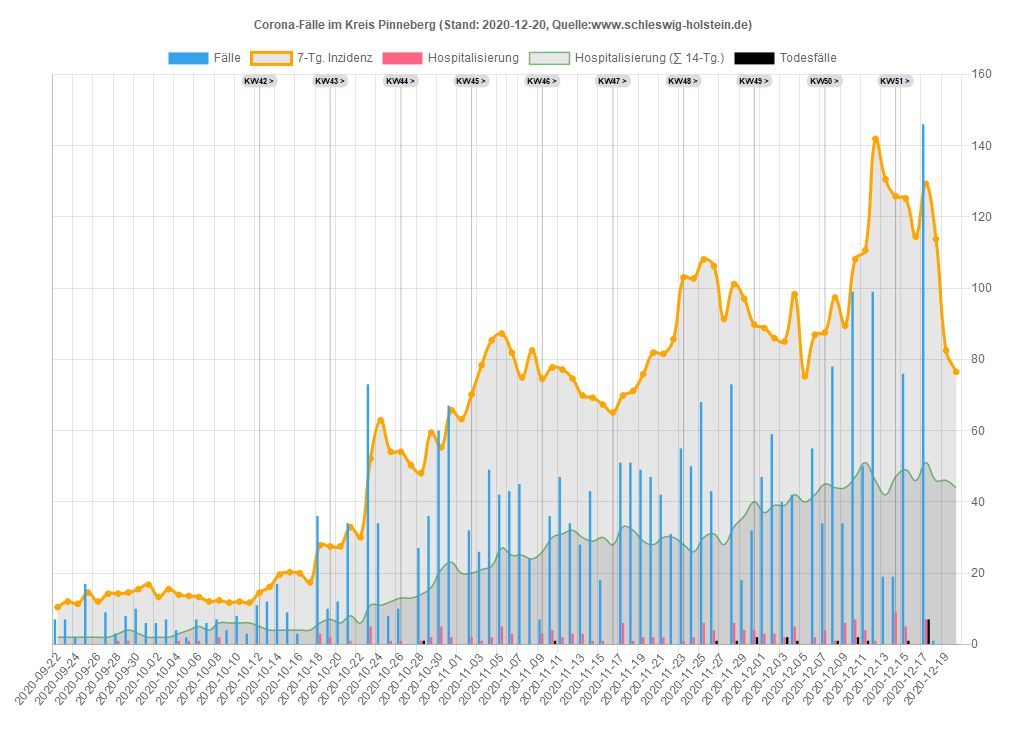
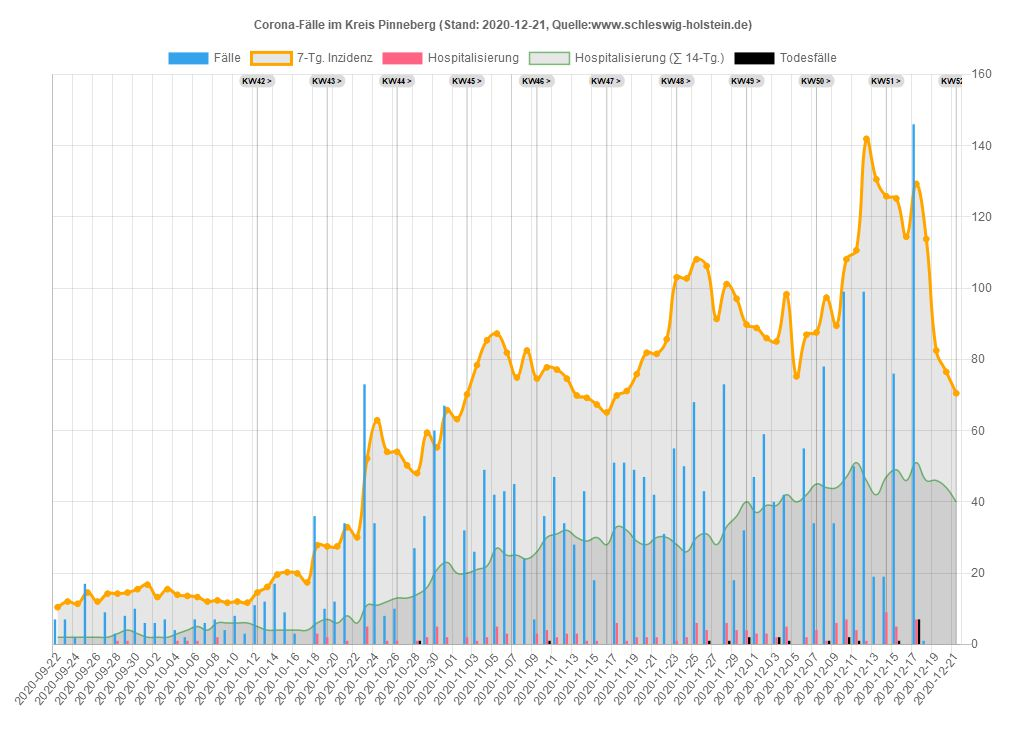
21.12.2020 21:26:18,69

Changed region(s): [[0.0625, 0.0931, 0.9375, 0.9622]]

diff --git a/sh/Data_SH.js b/sh/Data_SH.js
@@ -1,33 +1,33 @@
 var chdata={
-labels: ["2020-09-22","2020-09-23","2020-09-24","2020-09-25","2020-09-26","2020-09-27","2020-09-28","2020-09-29","2020-09-30","2020-10-01","2020-10-02","2020-10-03","2020-10-04","2020-10-05","2020-10-06","2020-10-07","2020-10-08","2020-10-09","2020-10-10","2020-10-11","2020-10-12","2020-10-13","2020-10-14","2020-10-15","2020-10-16","2020-10-17","2020-10-18","2020-10-19","2020-10-20","2020-10-21","2020-10-22","2020-10-23","2020-10-24","2020-10-25","2020-10-26","2020-10-27","2020-10-28","2020-10-29","2020-10-30","2020-10-31","2020-11-01","2020-11-02","2020-11-03","2020-11-04","2020-11-05","2020-11-06","2020-11-07","2020-11-08","2020-11-09","2020-11-10","2020-11-11","2020-11-12","2020-11-13","2020-11-14","2020-11-15","2020-11-16","2020-11-17","2020-11-18","2020-11-19","2020-11-20","2020-11-21","2020-11-22","2020-11-23","2020-11-24","2020-11-25","2020-11-26","2020-11-27","2020-11-28","2020-11-29","2020-11-30","2020-12-01","2020-12-02","2020-12-03","2020-12-04","2020-12-05","2020-12-06","2020-12-07","2020-12-08","2020-12-09","2020-12-10","2020-12-11","2020-12-12","2020-12-13","2020-12-14","2020-12-15","2020-12-16","2020-12-17","2020-12-18","2020-12-19","2020-12-20"],
+labels: ["2020-09-22","2020-09-23","2020-09-24","2020-09-25","2020-09-26","2020-09-27","2020-09-28","2020-09-29","2020-09-30","2020-10-01","2020-10-02","2020-10-03","2020-10-04","2020-10-05","2020-10-06","2020-10-07","2020-10-08","2020-10-09","2020-10-10","2020-10-11","2020-10-12","2020-10-13","2020-10-14","2020-10-15","2020-10-16","2020-10-17","2020-10-18","2020-10-19","2020-10-20","2020-10-21","2020-10-22","2020-10-23","2020-10-24","2020-10-25","2020-10-26","2020-10-27","2020-10-28","2020-10-29","2020-10-30","2020-10-31","2020-11-01","2020-11-02","2020-11-03","2020-11-04","2020-11-05","2020-11-06","2020-11-07","2020-11-08","2020-11-09","2020-11-10","2020-11-11","2020-11-12","2020-11-13","2020-11-14","2020-11-15","2020-11-16","2020-11-17","2020-11-18","2020-11-19","2020-11-20","2020-11-21","2020-11-22","2020-11-23","2020-11-24","2020-11-25","2020-11-26","2020-11-27","2020-11-28","2020-11-29","2020-11-30","2020-12-01","2020-12-02","2020-12-03","2020-12-04","2020-12-05","2020-12-06","2020-12-07","2020-12-08","2020-12-09","2020-12-10","2020-12-11","2020-12-12","2020-12-13","2020-12-14","2020-12-15","2020-12-16","2020-12-17","2020-12-18","2020-12-19","2020-12-20","2020-12-21"],
 datasets: [
 {label: 'Fälle',
 type: 'bar',
 backgroundColor: window.chartColors.blue,
-data: [38,42,63,53,15,15,38,48,49,27,50,16,24,39,54,45,79,54,26,25,65,65,65,55,90,26,88,163,111,160,136,236,142,115,164,164,280,215,313,265,161,142,236,262,220,274,233,177,215,252,247,192,296,158,161,100,294,208,264,250,153,121,145,251,256,225,180,219,71,81,244,240,245,318,234,154,183,314,297,529,384,472,140,241,486,322,602,508,431,157]},
+data: [38,42,63,53,15,15,38,48,49,27,50,16,24,39,54,45,79,54,26,25,65,65,65,55,90,26,88,163,111,160,136,236,142,115,164,164,280,215,313,265,161,142,236,262,220,274,233,177,215,252,247,192,296,158,161,100,294,208,264,250,153,121,145,251,256,225,180,219,71,81,244,240,245,318,234,154,183,314,297,529,384,472,140,241,486,322,602,508,431,157,211]},
 {label: '7-Tg. Inzidenz',
 type: 'line',
 pointBackgroundColor: 'orange',
 borderColor: 'orange',
-data: [7.23197027,7.88629139,8.74724023,9.40156135,9.33268544,9.16049567,9.09161977,9.4359993,9.67706498,8.43729865,8.33398478,8.36842274,8.67836432,8.71280227,8.91943,8.78167818,10.5724518,10.7102036,11.0545831,11.0890211,11.9844079,12.3632254,13.0519844,12.2254735,13.4652399,13.4652399,15.634831,19.0097504,20.5938963,23.8655019,26.6549761,31.6829174,35.67772,36.6075447,36.6419827,38.4671942,42.5997487,45.320347,47.9720694,52.2079377,53.7920836,53.0344486,55.5139813,54.8940981,55.0662879,53.7232077,52.6211932,53.1722004,55.6861711,56.2371783,55.720609,54.7563463,55.5139813,52.9311348,52.3801275,48.4197628,49.8661569,48.5230767,51.0026094,49.4184635,49.2462737,47.8687556,49.4184635,47.9376315,49.5906533,48.2475731,45.8369163,48.1098213,46.3879236,44.1838945,43.9428289,43.3918216,44.0805807,48.8330183,49.3495876,52.2079377,55.720609,58.1312658,60.0942291,69.874608,72.1475129,80.3437459,79.8616145,81.8590158,87.7823439,88.6432927,91.1572633,95.4275696,94.0156135,94.6010587]},
+data: [7.23197027,7.88629139,8.74724023,9.40156135,9.33268544,9.16049567,9.09161977,9.4359993,9.67706498,8.43729865,8.33398478,8.36842274,8.67836432,8.71280227,8.91943,8.78167818,10.5724518,10.7102036,11.0545831,11.0890211,11.9844079,12.3632254,13.0519844,12.2254735,13.4652399,13.4652399,15.634831,19.0097504,20.5938963,23.8655019,26.6549761,31.6829174,35.67772,36.6075447,36.6419827,38.4671942,42.5997487,45.320347,47.9720694,52.2079377,53.7920836,53.0344486,55.5139813,54.8940981,55.0662879,53.7232077,52.6211932,53.1722004,55.6861711,56.2371783,55.720609,54.7563463,55.5139813,52.9311348,52.3801275,48.4197628,49.8661569,48.5230767,51.0026094,49.4184635,49.2462737,47.8687556,49.4184635,47.9376315,49.5906533,48.2475731,45.8369163,48.1098213,46.3879236,44.1838945,43.9428289,43.3918216,44.0805807,48.8330183,49.3495876,52.2079377,55.720609,58.1312658,60.0942291,69.874608,72.1475129,80.3437459,79.8616145,81.8590158,87.7823439,88.6432927,91.1572633,95.4275696,94.0156135,94.6010587,93.5679201]},
 {label: 'Hospitalisierung',
 type: 'bar',
 backgroundColor: window.chartColors.red,
-data: [1,2,7,1,0,0,2,1,3,1,1,0,4,3,1,1,4,2,0,3,5,1,1,2,4,0,9,10,8,9,12,7,5,6,7,7,11,10,11,6,3,9,19,20,15,15,5,7,13,15,21,13,17,8,17,13,23,10,15,9,7,7,13,16,26,19,12,14,15,10,12,8,10,14,3,5,24,13,26,20,14,12,6,26,27,16,20,18,8,13]},
+data: [1,2,7,1,0,0,2,1,3,1,1,0,4,3,1,1,4,2,0,3,5,1,1,2,4,0,9,10,8,9,12,7,5,6,7,7,11,10,11,6,3,9,19,20,15,15,5,7,13,15,21,13,17,8,17,13,23,10,15,9,7,7,13,16,26,19,12,14,15,10,12,8,10,14,3,5,24,13,26,20,14,12,6,26,27,16,20,18,8,13,13]},
 {label: 'Hosp. (∑ 14-Tg.)',
 type: 'line',
 borderColor: 'rgba(0,255,0,0.5)',
 borderWidth: 1.5,
 pointRadius: 0,
-data: [12,12,20,22,22,22,22,23,23,21,22,21,24,26,26,25,22,23,23,26,29,29,27,28,31,31,36,43,50,58,66,71,76,79,81,87,97,105,112,118,112,111,122,133,136,144,144,145,151,159,169,172,178,180,194,198,202,192,192,186,188,188,188,189,194,200,195,201,199,196,185,183,178,183,179,177,188,185,185,186,188,186,177,193,208,216,226,230,235,243]},
+data: [12,12,20,22,22,22,22,23,23,21,22,21,24,26,26,25,22,23,23,26,29,29,27,28,31,31,36,43,50,58,66,71,76,79,81,87,97,105,112,118,112,111,122,133,136,144,144,145,151,159,169,172,178,180,194,198,202,192,192,186,188,188,188,189,194,200,195,201,199,196,185,183,178,183,179,177,188,185,185,186,188,186,177,193,208,216,226,230,235,243,232]},
 {label: 'Aktuell im Krankenhaus',
 type: 'line',
 pointBackgroundColor: 'green',
 borderColor: 'green',
-data: [6,6,6,6,6,6,6,11,11,11,11,14,14,15,15,14,14,14,13,13,18,18,18,21,24,24,24,24,31,31,31,31,51,51,58,58,58,58,58,58,58,94,110,114,119,118,124,120,126,116,113,119,112,116,116,148,145,151,141,141,141,141,155,142,122,113,118,118,118,124,114,110,109,114,114,114,131,122,128,132,133,133,133,177,181,194,201,212,236,250]},
+data: [6,6,6,6,6,6,6,11,11,11,11,14,14,15,15,14,14,14,13,13,18,18,18,21,24,24,24,24,31,31,31,31,51,51,58,58,58,58,58,58,58,94,110,114,119,118,124,120,126,116,113,119,112,116,116,148,145,151,141,141,141,141,155,142,122,113,118,118,118,124,114,110,109,114,114,114,131,122,128,132,133,133,133,177,181,194,201,212,236,250,275]},
 {label: 'Todesfälle',
 type: 'bar',
 backgroundColor: 'black',
-data: [0,0,0,0,0,0,0,1,0,0,0,0,0,0,0,0,0,0,0,0,0,1,0,0,0,0,0,0,0,0,1,0,0,3,0,0,3,4,1,0,2,6,7,2,2,6,0,1,4,3,5,0,5,1,3,5,0,2,2,2,1,0,3,4,1,3,3,1,4,2,3,1,4,1,0,1,4,2,5,7,7,1,2,2,6,7,11,3,2,0]},
+data: [0,0,0,0,0,0,0,1,0,0,0,0,0,0,0,0,0,0,0,0,0,1,0,0,0,0,0,0,0,0,1,0,0,3,0,0,3,4,1,0,2,6,7,2,2,6,0,1,4,3,5,0,5,1,3,5,0,2,2,2,1,0,3,4,1,3,3,1,4,2,3,1,4,1,0,1,4,2,5,7,7,1,2,2,6,7,11,3,2,0,9]},
 ]};
 

diff --git a/sh/Data_SH_Alter.js b/sh/Data_SH_Alter.js
@@ -100,7 +100,8 @@ var chdata={
 				{x: '2020-12-17', y: 'Alle', v: 89.9863729, casesum: 2613},{x: '2020-12-17', y: '00-09', v: 59.9870677, casesum: 154},{x: '2020-12-17', y: '10-19', v: 102.895941, casesum: 284},{x: '2020-12-17', y: '20-29', v: 125.327383, casesum: 401},{x: '2020-12-17', y: '30-39', v: 107.114485, casesum: 360},{x: '2020-12-17', y: '40-49', v: 102.419192, casesum: 361},{x: '2020-12-17', y: '50-59', v: 93.8633551, casesum: 465},{x: '2020-12-17', y: '60-69', v: 56.666575, casesum: 206},{x: '2020-12-17', y: '70-79', v: 44.942909, casesum: 133},{x: '2020-12-17', y: '80-89', v: 93.9376656, casesum: 168},{x: '2020-12-17', y: '90+', v: 281.093837, casesum: 81},
 				{x: '2020-12-18', y: 'Alle', v: 94.0844894, casesum: 2732},{x: '2020-12-18', y: '00-09', v: 56.8708564, casesum: 146},{x: '2020-12-18', y: '10-19', v: 102.895941, casesum: 284},{x: '2020-12-18', y: '20-29', v: 134.390959, casesum: 430},{x: '2020-12-18', y: '30-39', v: 112.470209, casesum: 378},{x: '2020-12-18', y: '40-49', v: 108.660805, casesum: 383},{x: '2020-12-18', y: '50-59', v: 94.6707819, casesum: 469},{x: '2020-12-18', y: '60-69', v: 62.9934256, casesum: 229},{x: '2020-12-18', y: '70-79', v: 48.6599917, casesum: 144},{x: '2020-12-18', y: '80-89', v: 99.5291934, casesum: 178},{x: '2020-12-18', y: '90+', v: 315.79678, casesum: 91},
 				{x: '2020-12-19', y: 'Alle', v: 92.9480369, casesum: 2699},{x: '2020-12-19', y: '00-09', v: 52.1965394, casesum: 134},{x: '2020-12-19', y: '10-19', v: 91.3020322, casesum: 252},{x: '2020-12-19', y: '20-29', v: 134.703496, casesum: 431},{x: '2020-12-19', y: '30-39', v: 108.899726, casesum: 366},{x: '2020-12-19', y: '40-49', v: 107.525967, casesum: 379},{x: '2020-12-19', y: '50-59', v: 99.9190555, casesum: 495},{x: '2020-12-19', y: '60-69', v: 65.4691497, casesum: 238},{x: '2020-12-19', y: '70-79', v: 48.9979083, casesum: 145},{x: '2020-12-19', y: '80-89', v: 98.4108878, casesum: 176},{x: '2020-12-19', y: '90+', v: 288.034425, casesum: 83},
-				{x: '2020-12-20', y: 'Alle', v: 93.7056719, casesum: 2721},{x: '2020-12-20', y: '00-09', v: 49.4698546, casesum: 127},{x: '2020-12-20', y: '10-19', v: 97.4612963, casesum: 269},{x: '2020-12-20', y: '20-29', v: 134.390959, casesum: 430},{x: '2020-12-20', y: '30-39', v: 109.197266, casesum: 367},{x: '2020-12-20', y: '40-49', v: 110.079354, casesum: 388},{x: '2020-12-20', y: '50-59', v: 100.322769, casesum: 497},{x: '2020-12-20', y: '60-69', v: 67.1196325, casesum: 244},{x: '2020-12-20', y: '70-79', v: 47.6462419, casesum: 141},{x: '2020-12-20', y: '80-89', v: 98.4108878, casesum: 176},{x: '2020-12-20', y: '90+', v: 284.564131, casesum: 82}
+				{x: '2020-12-20', y: 'Alle', v: 93.7056719, casesum: 2721},{x: '2020-12-20', y: '00-09', v: 49.4698546, casesum: 127},{x: '2020-12-20', y: '10-19', v: 97.4612963, casesum: 269},{x: '2020-12-20', y: '20-29', v: 134.390959, casesum: 430},{x: '2020-12-20', y: '30-39', v: 109.197266, casesum: 367},{x: '2020-12-20', y: '40-49', v: 110.079354, casesum: 388},{x: '2020-12-20', y: '50-59', v: 100.322769, casesum: 497},{x: '2020-12-20', y: '60-69', v: 67.1196325, casesum: 244},{x: '2020-12-20', y: '70-79', v: 47.6462419, casesum: 141},{x: '2020-12-20', y: '80-89', v: 98.4108878, casesum: 176},{x: '2020-12-20', y: '90+', v: 284.564131, casesum: 82},
+				{x: '2020-12-21', y: 'Alle', v: 92.8447231, casesum: 2696},{x: '2020-12-21', y: '00-09', v: 50.2489074, casesum: 129},{x: '2020-12-21', y: '10-19', v: 97.8236059, casesum: 270},{x: '2020-12-21', y: '20-29', v: 136.578719, casesum: 437},{x: '2020-12-21', y: '30-39', v: 101.16368, casesum: 340},{x: '2020-12-21', y: '40-49', v: 108.944515, casesum: 384},{x: '2020-12-21', y: '50-59', v: 100.322769, casesum: 497},{x: '2020-12-21', y: '60-69', v: 69.5953566, casesum: 253},{x: '2020-12-21', y: '70-79', v: 44.942909, casesum: 133},{x: '2020-12-21', y: '80-89', v: 99.5291934, casesum: 178},{x: '2020-12-21', y: '90+', v: 260.272071, casesum: 75}
 			],
 			backgroundColor: function(context) {
 				return inzColor(context.dataset.data[context.dataIndex].v)
@@ -108,7 +109,7 @@ var chdata={
 			width: function(context) {
 				const a = context.chart.chartArea
 				if (!a) return 0
-				return (a.right - a.left) / 97.5
+				return (a.right - a.left) / 98.5
 			},
 			height: function(context) {
 				const a = context.chart.chartArea
@@ -120,7 +121,7 @@ var chdata={
 	options: {
 		legend: { display: false },
 		scales: {
-			xAxes: [{type: 'category', labels: ["2020-09-15","2020-09-16","2020-09-17","2020-09-18","2020-09-19","2020-09-20","2020-09-21","2020-09-22","2020-09-23","2020-09-24","2020-09-25","2020-09-26","2020-09-27","2020-09-28","2020-09-29","2020-09-30","2020-10-01","2020-10-02","2020-10-03","2020-10-04","2020-10-05","2020-10-06","2020-10-07","2020-10-08","2020-10-09","2020-10-10","2020-10-11","2020-10-12","2020-10-13","2020-10-14","2020-10-15","2020-10-16","2020-10-17","2020-10-18","2020-10-19","2020-10-20","2020-10-21","2020-10-22","2020-10-23","2020-10-24","2020-10-25","2020-10-26","2020-10-27","2020-10-28","2020-10-29","2020-10-30","2020-10-31","2020-11-01","2020-11-02","2020-11-03","2020-11-04","2020-11-05","2020-11-06","2020-11-07","2020-11-08","2020-11-09","2020-11-10","2020-11-11","2020-11-12","2020-11-13","2020-11-14","2020-11-15","2020-11-16","2020-11-17","2020-11-18","2020-11-19","2020-11-20","2020-11-21","2020-11-22","2020-11-23","2020-11-24","2020-11-25","2020-11-26","2020-11-27","2020-11-28","2020-11-29","2020-11-30","2020-12-01","2020-12-02","2020-12-03","2020-12-04","2020-12-05","2020-12-06","2020-12-07","2020-12-08","2020-12-09","2020-12-10","2020-12-11","2020-12-12","2020-12-13","2020-12-14","2020-12-15","2020-12-16","2020-12-17","2020-12-18","2020-12-19","2020-12-20",], ticks: {display: true},gridlines:{display:false}}],
+			xAxes: [{type: 'category', labels: ["2020-09-15","2020-09-16","2020-09-17","2020-09-18","2020-09-19","2020-09-20","2020-09-21","2020-09-22","2020-09-23","2020-09-24","2020-09-25","2020-09-26","2020-09-27","2020-09-28","2020-09-29","2020-09-30","2020-10-01","2020-10-02","2020-10-03","2020-10-04","2020-10-05","2020-10-06","2020-10-07","2020-10-08","2020-10-09","2020-10-10","2020-10-11","2020-10-12","2020-10-13","2020-10-14","2020-10-15","2020-10-16","2020-10-17","2020-10-18","2020-10-19","2020-10-20","2020-10-21","2020-10-22","2020-10-23","2020-10-24","2020-10-25","2020-10-26","2020-10-27","2020-10-28","2020-10-29","2020-10-30","2020-10-31","2020-11-01","2020-11-02","2020-11-03","2020-11-04","2020-11-05","2020-11-06","2020-11-07","2020-11-08","2020-11-09","2020-11-10","2020-11-11","2020-11-12","2020-11-13","2020-11-14","2020-11-15","2020-11-16","2020-11-17","2020-11-18","2020-11-19","2020-11-20","2020-11-21","2020-11-22","2020-11-23","2020-11-24","2020-11-25","2020-11-26","2020-11-27","2020-11-28","2020-11-29","2020-11-30","2020-12-01","2020-12-02","2020-12-03","2020-12-04","2020-12-05","2020-12-06","2020-12-07","2020-12-08","2020-12-09","2020-12-10","2020-12-11","2020-12-12","2020-12-13","2020-12-14","2020-12-15","2020-12-16","2020-12-17","2020-12-18","2020-12-19","2020-12-20","2020-12-21",], ticks: {display: true},gridlines:{display:false}}],
 			yAxes: [{type: 'category', labels: ["Alle","00-09","10-19","20-29","30-39","40-49","50-59","60-69","70-79","80-89","90+"], offset:true, ticks: {display: true},gridlines:{display:false}}],
 		},
 	}

diff --git a/sh/Kreis_PI.js b/sh/Kreis_PI.js
@@ -1,33 +1,33 @@
 var chdata={
-labels: ["2020-09-22","2020-09-23","2020-09-24","2020-09-25","2020-09-26","2020-09-27","2020-09-28","2020-09-29","2020-09-30","2020-10-01","2020-10-02","2020-10-03","2020-10-04","2020-10-05","2020-10-06","2020-10-07","2020-10-08","2020-10-09","2020-10-10","2020-10-11","2020-10-12","2020-10-13","2020-10-14","2020-10-15","2020-10-16","2020-10-17","2020-10-18","2020-10-19","2020-10-20","2020-10-21","2020-10-22","2020-10-23","2020-10-24","2020-10-25","2020-10-26","2020-10-27","2020-10-28","2020-10-29","2020-10-30","2020-10-31","2020-11-01","2020-11-02","2020-11-03","2020-11-04","2020-11-05","2020-11-06","2020-11-07","2020-11-08","2020-11-09","2020-11-10","2020-11-11","2020-11-12","2020-11-13","2020-11-14","2020-11-15","2020-11-16","2020-11-17","2020-11-18","2020-11-19","2020-11-20","2020-11-21","2020-11-22","2020-11-23","2020-11-24","2020-11-25","2020-11-26","2020-11-27","2020-11-28","2020-11-29","2020-11-30","2020-12-01","2020-12-02","2020-12-03","2020-12-04","2020-12-05","2020-12-06","2020-12-07","2020-12-08","2020-12-09","2020-12-10","2020-12-11","2020-12-12","2020-12-13","2020-12-14","2020-12-15","2020-12-16","2020-12-17","2020-12-18","2020-12-19","2020-12-20"],
+labels: ["2020-09-22","2020-09-23","2020-09-24","2020-09-25","2020-09-26","2020-09-27","2020-09-28","2020-09-29","2020-09-30","2020-10-01","2020-10-02","2020-10-03","2020-10-04","2020-10-05","2020-10-06","2020-10-07","2020-10-08","2020-10-09","2020-10-10","2020-10-11","2020-10-12","2020-10-13","2020-10-14","2020-10-15","2020-10-16","2020-10-17","2020-10-18","2020-10-19","2020-10-20","2020-10-21","2020-10-22","2020-10-23","2020-10-24","2020-10-25","2020-10-26","2020-10-27","2020-10-28","2020-10-29","2020-10-30","2020-10-31","2020-11-01","2020-11-02","2020-11-03","2020-11-04","2020-11-05","2020-11-06","2020-11-07","2020-11-08","2020-11-09","2020-11-10","2020-11-11","2020-11-12","2020-11-13","2020-11-14","2020-11-15","2020-11-16","2020-11-17","2020-11-18","2020-11-19","2020-11-20","2020-11-21","2020-11-22","2020-11-23","2020-11-24","2020-11-25","2020-11-26","2020-11-27","2020-11-28","2020-11-29","2020-11-30","2020-12-01","2020-12-02","2020-12-03","2020-12-04","2020-12-05","2020-12-06","2020-12-07","2020-12-08","2020-12-09","2020-12-10","2020-12-11","2020-12-12","2020-12-13","2020-12-14","2020-12-15","2020-12-16","2020-12-17","2020-12-18","2020-12-19","2020-12-20","2020-12-21"],
 datasets: [
 {label: 'Fälle',
 type: 'bar',
 backgroundColor: window.chartColors.blue,
 yAxisID: 'first-y-axis',
-data: [7,7,2,17,0,9,3,8,10,6,6,7,4,2,7,6,7,4,8,3,11,12,17,9,3,0,36,10,12,34,0,73,34,8,10,0,27,36,60,67,0,32,26,49,42,43,45,24,7,36,47,34,28,43,18,0,51,51,49,47,42,31,55,50,68,43,0,73,18,32,47,59,40,42,0,55,34,78,34,99,50,99,19,19,76,0,146,1,0,0]},
+data: [7,7,2,17,0,9,3,8,10,6,6,7,4,2,7,6,7,4,8,3,11,12,17,9,3,0,36,10,12,34,0,73,34,8,10,0,27,36,60,67,0,32,26,49,42,43,45,24,7,36,47,34,28,43,18,0,51,51,49,47,42,31,55,50,68,43,0,73,18,32,47,59,40,42,0,55,34,78,34,99,50,99,19,19,76,0,146,1,0,0,0]},
 {label: '7-Tg. Inzidenz',
 type: 'line',
 pointBackgroundColor: 'orange',
 borderColor: 'orange',
 yAxisID: 'first-y-axis',
-data: [10.4300994,12.0104175,11.3782902,14.5389264,12.0104175,14.2228628,14.2228628,14.5389264,15.4871172,16.7513717,13.2746719,15.4871172,13.9067992,13.5907355,13.2746719,12.0104175,12.3264811,11.6943538,12.0104175,11.6943538,14.5389264,16.1192445,19.5959443,20.2280715,19.9120079,17.383499,27.8135983,27.4975347,27.4975347,32.8706162,30.0260436,52.1504969,62.8966598,54.0468786,54.0468786,50.2541151,48.0416698,59.41996,55.311133,65.7412324,63.2127235,70.166123,78.3837771,85.3371767,87.2335584,81.8604769,74.9070773,82.4926041,74.5910137,77.7516499,77.1195226,74.5910137,69.8500594,69.2179322,67.3215505,65.1091052,69.8500594,71.1143139,75.8552681,81.8604769,81.5444133,85.6532403,103.036739,102.720676,108.093757,106.197375,91.3423854,101.140358,97.0315305,89.7620673,88.8138765,85.9693039,85.021113,98.295785,75.2231409,86.9174948,87.549622,97.3475941,89.4460037,108.093757,110.622266,141.912564,130.534274,125.79332,125.161192,114.415029,129.270019,113.782902,82.4926041,76.4873954]},
+data: [10.4300994,12.0104175,11.3782902,14.5389264,12.0104175,14.2228628,14.2228628,14.5389264,15.4871172,16.7513717,13.2746719,15.4871172,13.9067992,13.5907355,13.2746719,12.0104175,12.3264811,11.6943538,12.0104175,11.6943538,14.5389264,16.1192445,19.5959443,20.2280715,19.9120079,17.383499,27.8135983,27.4975347,27.4975347,32.8706162,30.0260436,52.1504969,62.8966598,54.0468786,54.0468786,50.2541151,48.0416698,59.41996,55.311133,65.7412324,63.2127235,70.166123,78.3837771,85.3371767,87.2335584,81.8604769,74.9070773,82.4926041,74.5910137,77.7516499,77.1195226,74.5910137,69.8500594,69.2179322,67.3215505,65.1091052,69.8500594,71.1143139,75.8552681,81.8604769,81.5444133,85.6532403,103.036739,102.720676,108.093757,106.197375,91.3423854,101.140358,97.0315305,89.7620673,88.8138765,85.9693039,85.021113,98.295785,75.2231409,86.9174948,87.549622,97.3475941,89.4460037,108.093757,110.622266,141.912564,130.534274,125.79332,125.161192,114.415029,129.270019,113.782902,82.4926041,76.4873954,70.4821867]},
 {label: 'Hospitalisierung',
 type: 'bar',
 backgroundColor: window.chartColors.red,
 yAxisID: 'first-y-axis',
-data: [0,0,0,0,0,0,1,1,0,0,0,0,1,1,1,-1,2,0,0,0,0,0,0,0,0,0,3,2,0,1,0,5,0,1,1,0,1,2,5,2,0,2,1,2,5,3,0,0,3,4,2,3,3,1,1,0,6,1,2,2,2,0,1,2,6,4,0,6,4,4,3,3,2,5,0,2,4,1,6,7,4,1,0,9,5,0,7,0,0,0]},
+data: [0,0,0,0,0,0,1,1,0,0,0,0,1,1,1,-1,2,0,0,0,0,0,0,0,0,0,3,2,0,1,0,5,0,1,1,0,1,2,5,2,0,2,1,2,5,3,0,0,3,4,2,3,3,1,1,0,6,1,2,2,2,0,1,2,6,4,0,6,4,4,3,3,2,5,0,2,4,1,6,7,4,1,0,9,5,0,7,0,0,0,0]},
 {label: 'Hospitalisierung (∑ 14-Tg.)',
 type: 'line',
 pointRadius: 0,
 borderColor: 'rgba(0,128,0,0.5)',
 borderWidth: 1.5,
 yAxisID: 'first-y-axis',
-data: [2,2,2,2,2,2,3,4,3,2,2,2,3,4,5,4,6,6,6,6,5,4,4,4,4,4,6,7,6,8,6,11,11,12,13,13,14,16,21,23,20,20,21,22,27,25,25,24,26,30,31,32,30,29,30,28,33,32,29,28,30,30,28,26,30,31,28,33,36,40,37,39,39,42,40,42,45,44,44,47,51,46,42,47,49,46,51,46,46,44]},
+data: [2,2,2,2,2,2,3,4,3,2,2,2,3,4,5,4,6,6,6,6,5,4,4,4,4,4,6,7,6,8,6,11,11,12,13,13,14,16,21,23,20,20,21,22,27,25,25,24,26,30,31,32,30,29,30,28,33,32,29,28,30,30,28,26,30,31,28,33,36,40,37,39,39,42,40,42,45,44,44,47,51,46,42,47,49,46,51,46,46,44,40]},
 {label: 'Todesfälle',
 type: 'bar',
 backgroundColor: 'black',
 yAxisID: 'first-y-axis',
-data: [0,0,0,0,0,0,0,0,0,0,0,0,0,0,0,0,0,0,0,0,0,0,0,0,0,0,0,0,0,0,0,0,0,0,0,0,1,0,0,0,0,0,0,0,0,0,0,0,0,1,0,0,0,0,0,0,0,0,0,0,0,0,0,0,0,1,0,1,0,2,0,0,2,1,0,0,0,1,0,2,1,0,0,0,1,0,7,0,0,0]},
+data: [0,0,0,0,0,0,0,0,0,0,0,0,0,0,0,0,0,0,0,0,0,0,0,0,0,0,0,0,0,0,0,0,0,0,0,0,1,0,0,0,0,0,0,0,0,0,0,0,0,1,0,0,0,0,0,0,0,0,0,0,0,0,0,0,0,1,0,1,0,2,0,0,2,1,0,0,0,1,0,2,1,0,0,0,1,0,7,0,0,0,0]},
 ]};
 

diff --git a/dk/index.html b/dk/index.html
@@ -18,7 +18,7 @@
 <li>Diese Chart zeigt Werte, welche für die Entscheidungen bezüglich Risikogebieten / Quarantäneland seitens Deutschland und Dänemark herangezogen werden. Dies sind zum einen die 7-Tage Inzidenzen der Regionen in Dänemark. Aber auch die halbierten 14-Tage Inzidenzen für Schleswig-Holstein und Deutschland (durch die Halbierung entsteht eine gewisse Vergleichbarkeit mit den 7-Tage Inzidenzen).</li>
 <li>Die dänischen Daten vom SSI enthalten für die letzten 1-2 Tage meist noch sehr unvollständige Werte. Daher wird hier die Inzidenz stets bis "vorgestern" berechnet. Dies ergibt abweichende Zahlen zum SSI Dashboard, dort werden für die 7-Tage Inzidenz die letzten 9 Tage zusammengezählt (und durch 7 geteilt), um die unvollständigen Daten auszugleichen.</li>
 <li>Details zu den Entscheidungskriterien finden sich für Dänemark auf <a href="https://coronasmitte.dk/en/entry-into-denmark">coronasmitte.dk</a> und für Deutschland auf der Seite des <a href="https://www.rki.de/DE/Content/InfAZ/N/Neuartiges_Coronavirus/Risikogebiete_neu.html">RKI</a></li>
-<li>Im unteren Teil werden Zeiträume für verschiedene Sperrungen/Maßnahmen markiert. Da diese Daten manuell gepflegt werden, kann es hier zu verzögerten Updates kommen.</li>
+<!-- <li>Im unteren Teil werden Zeiträume für verschiedene Sperrungen/Maßnahmen markiert. Da diese Daten manuell gepflegt werden, kann es hier zu verzögerten Updates kommen.</li> -->
 </ul>
 <h2 id="Quellen">Quellen</h2>
 <ul>
@@ -49,7 +49,7 @@ var opt = {
         //https://github.com/chartjs/chartjs-plugin-annotation
         annotation: {
             annotations: [
-            {
+            /*{
                 type: "box",
                 xScaleID: "x-axis-0",
                 yScaleID: "first-y-axis",
@@ -62,25 +62,6 @@ var opt = {
                 borderColor: window.chartColors.red,
                 borderWidth: 0,
             },
-            /*{
-                type: "line",
-                mode: "vertical",
-                scaleID: "x-axis-0",
-                value: "2020-09-28",
-                borderColor: 'rgba(0,0,0,0)',
-                borderWidth: 0,
-                label: {
-                  //backgroundColor: "red",
-                  backgroundColor: 'rgba(220,220,220,0)',
-                  //fontColor: window.chartColors.red,
-                  yAdjust: 2,
-                  fontColor: "white",
-                  fontSize: 10,
-                  content: "Risikogebiet Hovedstaden",
-                  position: "bottom",
-                  enabled: true
-                },
-            },*/
             {
                 type: "line",
                 drawTime: 'afterDatasetsDraw',
@@ -202,7 +183,7 @@ var opt = {
                   position: "right",
                   enabled: true
                 },           
-            },            
+            },            */
             
             
 /*            {            

diff --git a/dk/regioner.js b/dk/regioner.js
@@ -2,7 +2,7 @@ var chdata={ type:'line',
 last_update: '2020-12-21',
 last_dk_data: '2020-12-19',
 data: {
-labels: ["2020-09-27","2020-09-28","2020-09-29","2020-09-30","2020-10-01","2020-10-02","2020-10-03","2020-10-04","2020-10-05","2020-10-06","2020-10-07","2020-10-08","2020-10-09","2020-10-10","2020-10-11","2020-10-12","2020-10-13","2020-10-14","2020-10-15","2020-10-16","2020-10-17","2020-10-18","2020-10-19","2020-10-20","2020-10-21","2020-10-22","2020-10-23","2020-10-24","2020-10-25","2020-10-26","2020-10-27","2020-10-28","2020-10-29","2020-10-30","2020-10-31","2020-11-01","2020-11-02","2020-11-03","2020-11-04","2020-11-05","2020-11-06","2020-11-07","2020-11-08","2020-11-09","2020-11-10","2020-11-11","2020-11-12","2020-11-13","2020-11-14","2020-11-15","2020-11-16","2020-11-17","2020-11-18","2020-11-19","2020-11-20","2020-11-21","2020-11-22","2020-11-23","2020-11-24","2020-11-25","2020-11-26","2020-11-27","2020-11-28","2020-11-29","2020-11-30","2020-12-01","2020-12-02","2020-12-03","2020-12-04","2020-12-05","2020-12-06","2020-12-07","2020-12-08","2020-12-09","2020-12-10","2020-12-11","2020-12-12","2020-12-13","2020-12-14","2020-12-15","2020-12-16","2020-12-17","2020-12-18","2020-12-19","2020-12-20","2020-12-21","2020-12-22"],
+labels: ["2020-09-27","2020-09-28","2020-09-29","2020-09-30","2020-10-01","2020-10-02","2020-10-03","2020-10-04","2020-10-05","2020-10-06","2020-10-07","2020-10-08","2020-10-09","2020-10-10","2020-10-11","2020-10-12","2020-10-13","2020-10-14","2020-10-15","2020-10-16","2020-10-17","2020-10-18","2020-10-19","2020-10-20","2020-10-21","2020-10-22","2020-10-23","2020-10-24","2020-10-25","2020-10-26","2020-10-27","2020-10-28","2020-10-29","2020-10-30","2020-10-31","2020-11-01","2020-11-02","2020-11-03","2020-11-04","2020-11-05","2020-11-06","2020-11-07","2020-11-08","2020-11-09","2020-11-10","2020-11-11","2020-11-12","2020-11-13","2020-11-14","2020-11-15","2020-11-16","2020-11-17","2020-11-18","2020-11-19","2020-11-20","2020-11-21","2020-11-22","2020-11-23","2020-11-24","2020-11-25","2020-11-26","2020-11-27","2020-11-28","2020-11-29","2020-11-30","2020-12-01","2020-12-02","2020-12-03","2020-12-04","2020-12-05","2020-12-06","2020-12-07","2020-12-08","2020-12-09","2020-12-10","2020-12-11","2020-12-12","2020-12-13","2020-12-14","2020-12-15","2020-12-16","2020-12-17","2020-12-18","2020-12-19","2020-12-20","2020-12-21"],
 datasets: [
 {label: 'Hovedstaden',
 backgroundColor: window.chartColors.red,
@@ -32,8 +32,9 @@ data: [54.6,55.4,53.5,49.2,46.2,43.4,40.8,39.8,37.0,35.6,33.0,29.4,28.1,27.2,27.
 {label: 'Deutschland',
 backgroundColor: window.chartColors.grey,
 borderColor: window.chartColors.grey,
+spanGaps: true,
 fill: false,
-data: []},
+data: [,15.0,,,,,,,17.0,,,,,,,24.1,,,,,,,39.6,,,,,,,67.8,,,,,,,107.6,,,,,,,140.9,,,,,,,154.4,,,,,,,154.9,,,,,,,152.1,,,,,,,153.3,,,,,,,170.6,,,,,,,]},
 {label: 'Schleswig-Holstein',
 backgroundColor: '#0000AF',
 borderColor: '#0000AF',

diff --git a/sh/index_sh_alter.html b/sh/index_sh_alter.html
@@ -5,7 +5,7 @@
 <meta property="og:image" content="index_sh_alter.jpg" />
 <meta property="og:type" content="website" />
 <meta property="og:locale" content="de_DE" />
-<meta property="og:updated_time" content="2020-12-21T14:18:53+01:00" />
+<meta property="og:updated_time" content="2020-12-21T21:26:16+01:00" />
 <title>Altersverteilung der Corona-Fälle in Schleswig-Holstein</title>
 <link rel="stylesheet" href="../css/style.css" media="screen" type="text/css">
 <link rel="stylesheet" media="screen" href="Chart.min.css"> 

diff --git a/sh/index_pi_alter.html b/sh/index_pi_alter.html
@@ -5,7 +5,7 @@
 <meta property="og:image" content="index_pi_alter.jpg" />
 <meta property="og:type" content="website" />
 <meta property="og:locale" content="de_DE" />
-<meta property="og:updated_time" content="2020-12-21T14:18:53+01:00" />
+<meta property="og:updated_time" content="2020-12-21T21:26:16+01:00" />
 <title>Altersverteilung der Corona-Fälle im Kreis Pinneberg</title>
 <link rel="stylesheet" href="../css/style.css" media="screen" type="text/css">
 <link rel="stylesheet" media="screen" href="Chart.min.css"> 

diff --git a/sh/index.html b/sh/index.html
@@ -5,7 +5,7 @@
 <meta property="og:image" content="index.jpg" />
 <meta property="og:type" content="website" />
 <meta property="og:locale" content="de_DE" />
-<meta property="og:updated_time" content="2020-12-21T14:18:53+01:00" />
+<meta property="og:updated_time" content="2020-12-21T21:26:16+01:00" />
 <title>Corona-Fälle im Kreis Pinneberg</title>
 <link rel="stylesheet" href="../css/style.css" media="screen" type="text/css">
 <link rel="stylesheet" media="screen" href="Chart.min.css"> 
